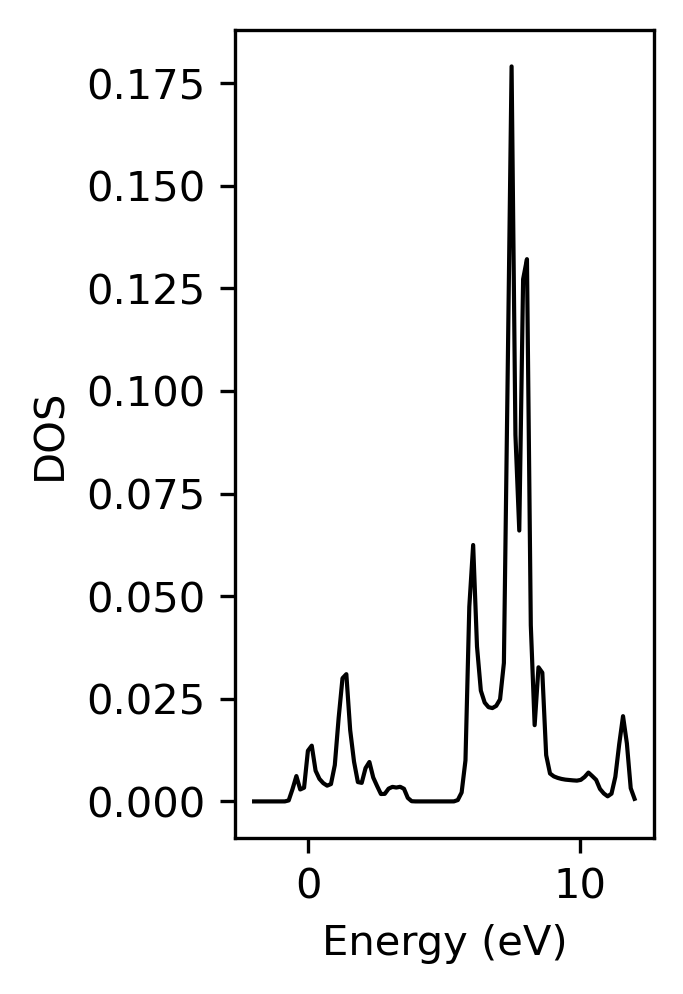
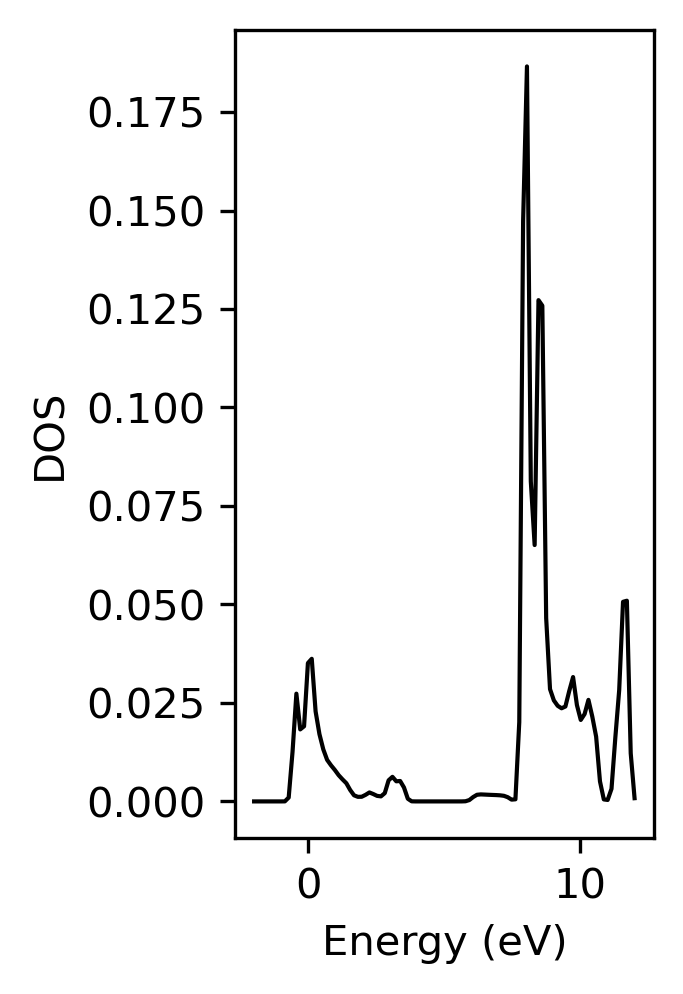
update pDOS plot script doc.

diff --git a/example/automatic_rotation/README.md b/example/automatic_rotation/README.md
@@ -80,19 +80,19 @@ To get corresponding pDOS plot, put `rot_pdos_plot.py` into your scf folder
 command:
 
 ```
-python rot_pdos_plot.py 0 6 -180 0 -49.75 -2 12 100 0.1
+python rot_pdos_plot.py 0 6 -135 0 -54.75 -2 12 100 0.1
 ```
 
 The command line arguments are:
 ```
 0      |  6   |  Euler alpha | Euler beta | Euler gamma | dos E min | dos E max | dos points | smearing Sigma|
-Atom 0 |  dz2 |  -180        | 0          | -49.75      | -2        | -2        | 100        | 0.1           |
+Atom 0 |  dz2 |  -135        | 0          | -54.75      | -2        | -2        | 100        | 0.1           |
 ```
 
 And this give us the following plot that corresponds to the pband plot of
 $d_{z^2}$ orbtial:
 
 <p align="center">
-<img src="https://github.com/Chengcheng-Xiao/RotSph/blob/master/example/automatic_rotation/images/pdos_dz2.png?raw=true" width="50%" height="50%">
+<img src="https://github.com/Chengcheng-Xiao/RotSph/blob/master/example/automatic_rotation/images/pdos_dz2.png?raw=true" width="20%" height="20%">
 </p>
 
